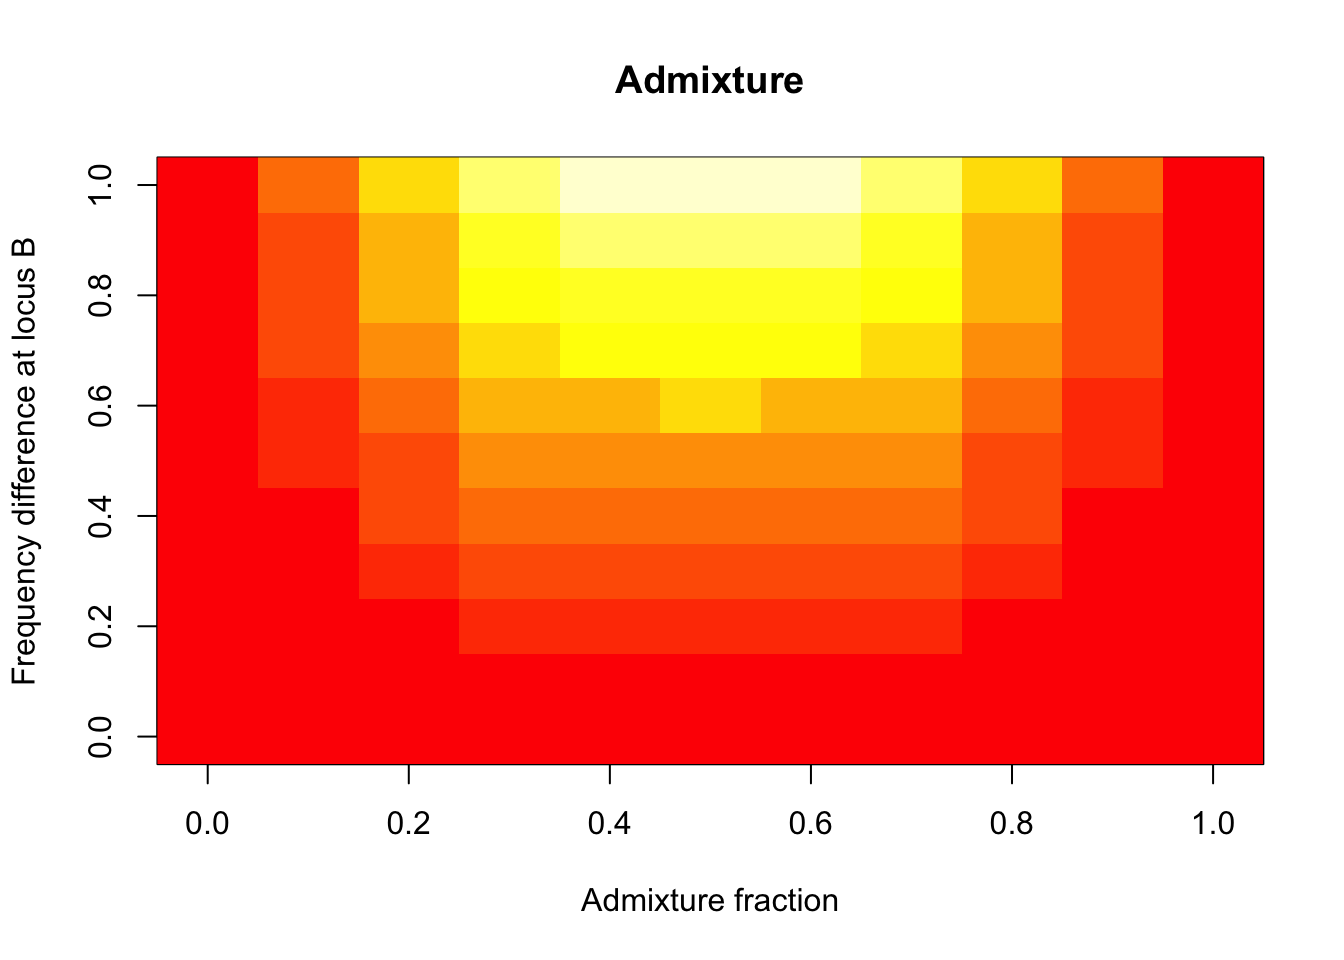
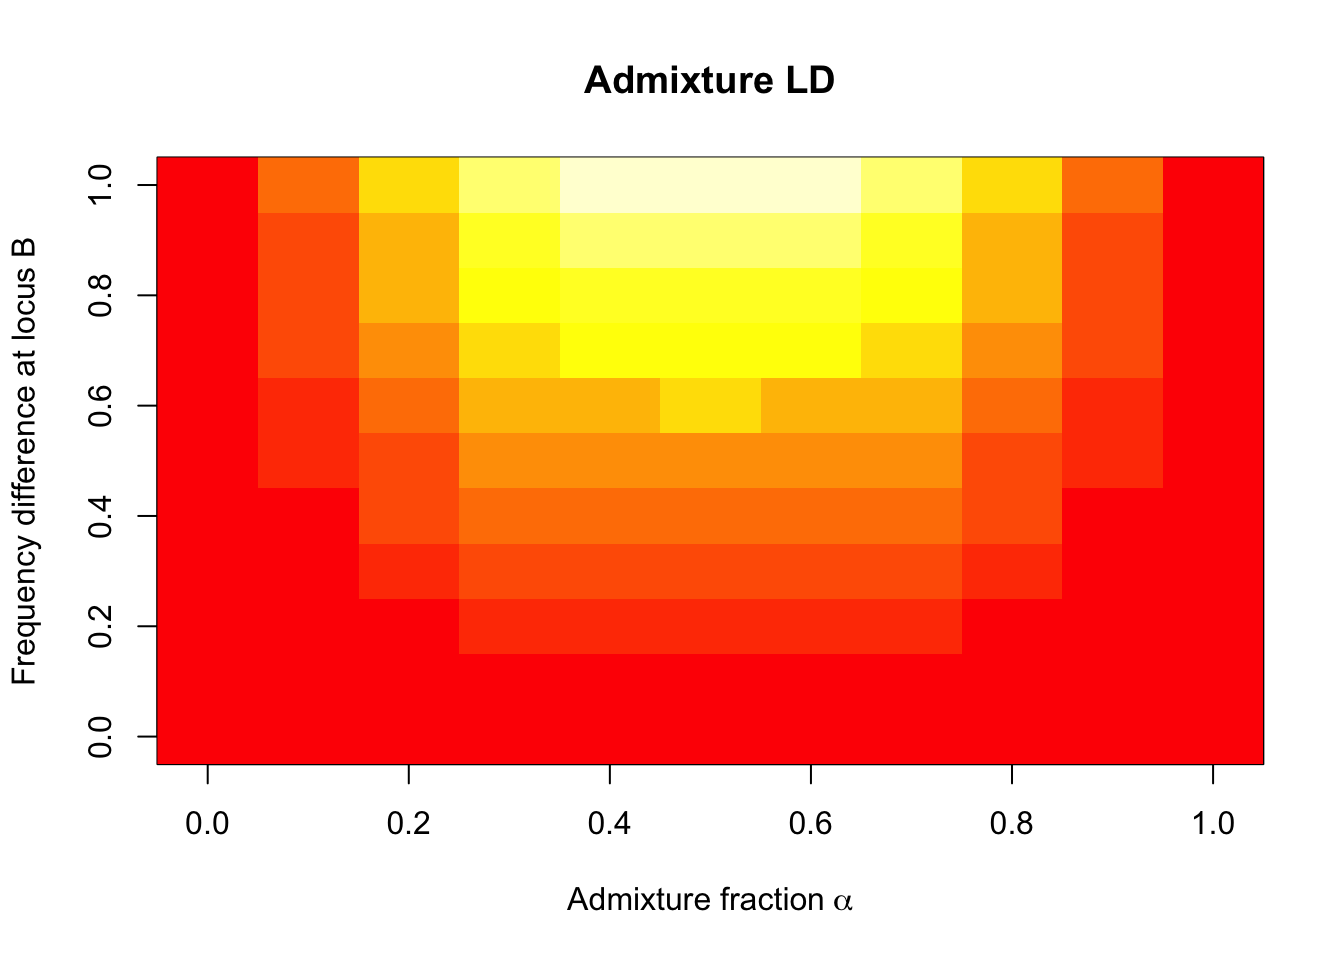
changed fig 2 to describe ld decay wrt recombination rate

Changed region(s): [[0.4375, 0.9062, 0.625, 0.9688], [0.4375, 0.0625, 0.625, 0.0938]]

diff --git a/content/post/2021-10-09-ld-between-loci-due-to-population-structure-admixture-2-locus-wahlund-effect/index.en.html b/content/post/2021-10-09-ld-between-loci-due-to-population-structure-admixture-2-locus-wahlund-effect/index.en.html
@@ -61,44 +61,50 @@ for(i in 1:11){
   }
 }
 
-image(dmat, main = &quot;Admixture&quot;, col = heat.colors(12), 
-      xlab = &quot;Admixture fraction&quot;, ylab = &quot;Frequency difference at locus B&quot;)</code></pre>
+image(dmat, main = &quot;Admixture LD&quot;, col = heat.colors(12), 
+      xlab = bquote(&quot;Admixture fraction&quot;~alpha), ylab = &quot;Frequency difference at locus B&quot;)</code></pre>
 <p><img src="{{< relref "post/2021-10-09-ld-between-loci-due-to-population-structure-admixture-2-locus-wahlund-effect/index.en.html" >}}index.en_files/figure-html/unnamed-chunk-1-1.png" width="672" /></p>
-<p>We can tell that D is maximized (yellow regions) (i) when <span class="math inline">\(\alpha = 0.5\)</span> (i.e. each population contributes to the admixture event equally), which would make <span class="math inline">\(\alpha(1-\alpha) = 0.25\)</span>, <em>and</em> (ii) when the product of allele frequency difference <span class="math inline">\((f_1^A - f_2^A)(f_1^B - f_2^B)\)</span> is 1. The latter is only possible if both <span class="math inline">\(f_1^A - f_2^A = f_1^B - f_2^B = 1\)</span>, i.e. if one allele is fixed in one population and absent in the other population. On the other hand, if the allele frequency at either of the two loci are equal between the two populations (i.e. <span class="math inline">\(f_1^A - f_2^A = 0\)</span> or <span class="math inline">\(f_1^B - f_2^B = 0\)</span>), <span class="math inline">\(D = 0\)</span>.</p>
+<p>We can tell that there will be no LD between unlinked loci (i.e. <span class="math inline">\(D = 0\)</span> where tiles are red) in an unadmixed (randomly mating) population (i.e. when <span class="math inline">\(\alpha = 0\)</span> or <span class="math inline">\(\alpha = 1\)</span>). <span class="math inline">\(D = 0\)</span> also when the allele frequency at either of the two loci are equal between the two populations (i.e. <span class="math inline">\(f_1^A - f_2^A = 0\)</span> or <span class="math inline">\(f_1^B - f_2^B = 0\)</span>). For any other situation (<span class="math inline">\(\alpha &gt;0\)</span> &amp; <span class="math inline">\(|f_1^A - f_2^A| &gt; 0\)</span> &amp; <span class="math inline">\(|f_1^B - f_2^B| &gt; 0\)</span>), unlinked loci will be correlated across the genome (<span class="math inline">\(D &gt; 0\)</span> where tiles are more yellow). The requirement that <span class="math inline">\(|f_1^A - f_2^A|\)</span> and <span class="math inline">\(|f_1^A - f_2^A|\)</span> be greater than 0 means that admixture LD only affects loci where the frequencies are different between the two populations, the admixture LD increasing with the difference in frequency.</p>
+<p>Admixture LD is maximized (bright yellow region) when two conditions are met: (i) when <span class="math inline">\(\alpha = 0.5\)</span> (i.e. each population contributes to the admixture event equally), which would make <span class="math inline">\(\alpha(1-\alpha) = 0.25\)</span>, <em>and</em> (ii) when the product of allele frequency difference <span class="math inline">\((f_1^A - f_2^A)(f_1^B - f_2^B)\)</span> is 1. The latter is only possible if both <span class="math inline">\(f_1^A - f_2^A = f_1^B - f_2^B = 1\)</span>, i.e. if one allele is fixed in one population and absent in the other population.</p>
 </div>
 <div id="admixture-ld-decays-pretty-rapidly-with-random-mating" class="section level3">
 <h3>Admixture LD decays pretty rapidly with random mating</h3>
-<p>So far we’ve only considered LD right after admixture. Admixture LD between unlinked loci decays pretty rapidly after admixture in a randomly mating population due to recombination between loci and independent assortment. Let’s denote admixture LD in generation <span class="math inline">\(t\)</span> since admixture as <span class="math inline">\(D^t\)</span>. In a randomly mating population arising from a single admixture event, <span class="math inline">\(D^t = D^0 (1 - r)^t\)</span> <a href="#fn5" class="footnote-ref" id="fnref5"><sup>5</sup></a> where <span class="math inline">\(r\)</span> is the recombination fraction between two loci and <span class="math inline">\(D^0\)</span> is the admixture LD observed at the time of admixture. Let’s plot <span class="math inline">\(D^t\)</span> for two unlinked loci (for which <span class="math inline">\(r = 0.5\)</span>).</p>
+<p>So far we’ve only considered LD right after admixture. Admixture LD between unlinked loci decays pretty rapidly after admixture in a randomly mating population due to recombination between loci and independent assortment (see Fig. 1 again). Let’s denote admixture LD in generation <span class="math inline">\(t\)</span> since admixture as <span class="math inline">\(D^t\)</span>. In a randomly mating population arising from a single admixture event, <span class="math inline">\(D^t = D^0 (1 - r)^t\)</span> <a href="#fn5" class="footnote-ref" id="fnref5"><sup>5</sup></a> where <span class="math inline">\(D^0\)</span> is the admixture LD observed at the time of admixture and <span class="math inline">\(r\)</span> is the recombination fraction between the two loci. Let’s plot the decay of admixture LD as a function of the <span class="math inline">\(r\)</span> assuming the maximum possible value <span class="math inline">\(D^0\)</span> can take (i.e. 0.25).</p>
 <pre class="r"><code>suppressPackageStartupMessages(library(ggplot2))
-#range of values of d0 (LD at time of admixture)
-d0 = seq(0.1, 0.25, 0.05)
-dtmat = matrix(NA, nrow = 4, ncol = 10) # matrix to store values of dt
 
-for(i in 1:4){
-  dt = d0[i]
+#range of values of r (recombination fraction)
+r = seq(0, 0.5, 0.1)
+dtmat = matrix(NA, nrow = 6, ncol = 10) # matrix to store values of dt
+
+for(i in 1:6){
+  dt = 0.5
   for(j in 1:10){
     dtmat[i,j] = dt
-    dt = d0[i]*(0.5)^j
+    dt = dt*(1 -r[i])^j
   }
 }
 
 dtmat = reshape2::melt(dtmat)
 
-colnames(dtmat) = c(&quot;d0&quot;,&quot;g&quot;,&quot;Dt&quot;)
+colnames(dtmat) = c(&quot;r&quot;,&quot;g&quot;,&quot;Dt&quot;)
+dtmat$r = (dtmat$r - 1)/10
+
 ggplot(dtmat, 
-                aes(g, Dt, group = d0, color = d0))+
+       aes(g, Dt, group = r, 
+           color = as.factor(r)))+
   geom_line()+
   theme_classic()+
-  theme(legend.position = &quot;none&quot;,
-        axis.text = element_text(size = 14),
-        axis.title = element_text(size = 16))+
-  scale_color_viridis_c()+
+  theme(axis.text = element_text(size = 14),
+        axis.title = element_text(size = 16),
+        legend.title = element_text(size = 14))+
+  scale_color_viridis_d()+
   scale_x_continuous(breaks = c(1:10))+
   labs(x = &quot;Generations since admixture (t)&quot;,
-       y = bquote(D[t]))</code></pre>
+       y = bquote(D[t]),
+       color = &quot;r&quot;)</code></pre>
 <p><img src="{{< relref "post/2021-10-09-ld-between-loci-due-to-population-structure-admixture-2-locus-wahlund-effect/index.en.html" >}}index.en_files/figure-html/unnamed-chunk-2-1.png" width="672" /></p>
-<p>As you can see, <span class="math inline">\(D\)</span> decays very quickly between two unlinked loci, reaching almost neglegible values (<span class="math inline">\(&lt;0.05\)</span>) just after 5 generations of random mating even when admixture LD was high to begin with (max possible value of <span class="math inline">\(D = 0.25\)</span>, yellow line). However, quantitatively, this rate of decay depends on the exact nature of admixture dynamics. Admixture LD will decay more slowly in a population with ancestry-based assortative mating (i.e. where individuals prefer to mate with others of similar ancestry) and if the admixture is continuous (i.e. with an continuous influx of individuals from one or both of the ancestral populations) as opposed to occurring in a single event. Why that happens is beyond the scope of this post but you should look up <a href="https://www.cell.com/ajhg/pdf/S0002-9297(07)62484-7.pdf">Pfaff <em>et al.</em> 2001</a> and <a href="https://pubmed.ncbi.nlm.nih.gov/27879348/">Zaitlen <em>et al.</em> 2017</a> for a deeper treatment (with nice and clear notation) of this topic.</p>
-<p>LD between unlinked loci can also be generated due to population structure or assortative mating in the population (non-random mating broadly). Thus, admixture LD is a special instance of a more general phenomenon whereby demographic processes (e.g. population structure and assortative mating) can induce correlations across the genome. Sometimes people call this type of LD gametic phase disequilibrium (how’s that for a mouthful) to distinguish it from LD due to physical linkage. The correlations between unlinked loci that arise due to population structure and admixture is sometimes called the multi-locus Wahlund effect.</p>
+<p>As you can see, <span class="math inline">\(D\)</span> decays very quickly between loci, but especially when the loci are not unlinked (i.e. <span class="math inline">\(r = 0.5\)</span>, yellow line), reaching almost neglegible values just after 4 generations of random mating. However, the rate of decay shown here is if the admixed population were mating randomly. Admixture LD will decay more slowly in a population with ancestry-based assortative mating (i.e. where individuals prefer to mate with others of similar ancestry) and/or if the admixture is continuous (i.e. with an continuous influx of individuals from one or both of the ancestral populations) as opposed to occurring in a single event. Why that happens is beyond the scope of this post but you should look up <a href="https://www.cell.com/ajhg/pdf/S0002-9297(07)62484-7.pdf">Pfaff <em>et al.</em> 2001</a> and <a href="https://pubmed.ncbi.nlm.nih.gov/27879348/">Zaitlen <em>et al.</em> 2017</a> for a deeper treatment (with nice and clear notation) of this topic.</p>
+<p>LD between unlinked loci can also be generated due to population structure or assortative mating in the population (non-random mating broadly). Thus, admixture LD is a special instance of a more general phenomenon whereby demographic processes (e.g. population structure and assortative mating) can induce correlations across the genome. The correlations between unlinked loci that arise due to population structure and admixture is sometimes called the multi-locus Wahlund effect. Sometimes people call this type of LD gametic phase disequilibrium (how’s that for a mouthful) to distinguish it from LD due to physical linkage.</p>
 <div id="footnotes" class="section level4">
 <h4>Footnotes</h4>
 </div>
